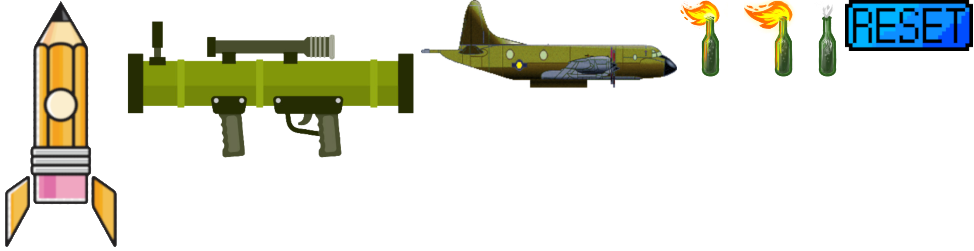
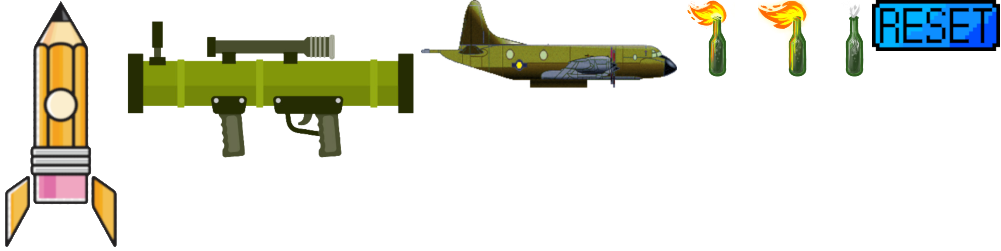
game objects, misc

Changed region(s): [[0.1232, 0.0, 0.9856, 0.6414], [0.0, 0.0279, 0.1232, 0.9761], [0.9856, 0.0, 1.0, 0.0279]]

diff --git a/src/GameObject.cpp b/src/GameObject.cpp
@@ -4,6 +4,49 @@
 GameObject::GameObject(const IDType id, const std::string& name) :_id(id), _name(name) {
 }
 
+void GameObject::SetPosition(const Point& pt) {
+	_position = pt;
+}
+
+void GameObject::SetSize(const Size& sz) {
+	_size = sz;
+}
+
+void GameObject::SetScale(const float scale) {
+	_scale = scale;
+}
+
+void GameObject::SetDirection(const Point& d) {
+	_direction = d;
+}
+
+void GameObject::SetSpeed(const float s) {
+	_speed = s;
+}
+
+void GameObject::SetAngleSpeed(const float s) {
+	_angleSpeed = s;
+}
+
+AnimationPtr GameObject::addAnimation(const std::string& name, const unsigned int framesCount, const unsigned int fps) {
+
+	AnimationPtr animPtr;
+	const auto& animIt = _animations.find(name);
+
+	if (animIt != _animations.end()) {
+
+		Log::Inst()->PutMessage("GameObject::addAnimation " + name + " already added, no action needed");
+		animPtr = animIt->second;
+	}
+	else {
+		animPtr = std::make_shared<Animation>(name, framesCount, fps);
+		_animations[_name] = animPtr;
+	}
+	
+	return animPtr;
+}
+
+
 bool GameObject::playAnimation(const std::string& animName) {
 
 	const auto& animIt = _animations.find(animName);
@@ -17,14 +60,6 @@ bool GameObject::playAnimation(const std::string& animName) {
 	_animationState._startTime = clock();
 
 	return true;
-}
-
-void GameObject::SetPosition(const Point& pt) {
-	_position = pt;
-}
-
-void GameObject::SetSize(const Size& sz) {
-	_size = sz;
 }
 
 void GameObject::updateScale() {
@@ -41,8 +76,11 @@ void GameObject::updateScale() {
 	}
 
 	_spritePtr->getSpr()->setScale(
-		_size.getX() / tRect.width,
-		_size.getY() / tRect.height);
+		_size.getX() / tRect.width * _scale,
+		_size.getY() / tRect.height * _scale);
+
+	const Size halfSize(float(tRect.width) / 2.f, float(tRect.height) / 2.f);
+	_spritePtr->getSpr()->setOrigin(halfSize.getX(), halfSize.getY());
 }
 
 void GameObject::updateAnimations() {
@@ -50,8 +88,8 @@ void GameObject::updateAnimations() {
 	if (_animationState.isEmpty()) {
 
 		if (_animations.empty()) {
-			AnimationPtr defaultAnimationPtr = std::make_shared<Animation>(_name, 2);
-			_animations[_name] = defaultAnimationPtr;
+
+			addAnimation(_name, 1, 0);
 		}
 
 		playAnimation(_name);
@@ -97,5 +135,6 @@ void GameObject::update(float dt) {
 	updateAnimations();
 	updateScale();
 
+	_spritePtr->getSpr()->setRotation(_rotation);
 	_spritePtr->getSpr()->setPosition(_position.getX(), _position.getY());
 }

diff --git a/src/GameObject.h b/src/GameObject.h
@@ -14,8 +14,12 @@ public:
 	void updateScale();
 	void updateAnimations();
 
+	void SetScale(const float scale);
 	void SetSize(const Size& sz);
 	void SetPosition(const Point& pt);
+	void SetDirection(const Point& d);
+	void SetSpeed(const float s);
+	void SetAngleSpeed(const float s);
 
 	IDType getId() const { return _id; }
 
@@ -30,13 +34,15 @@ protected:
 		bool isEmpty() const { return _startTime == 0; }
 	};
 
-	std::unordered_map<std::string, AnimationPtr> _animations;
+	AnimationPtr addAnimation(const std::string& name, const unsigned int framesCount, const unsigned int fps);
 
+	std::unordered_map<std::string, AnimationPtr> _animations;
 	AnimationState _animationState;
 
 	Point _position;
 	Point _direction{1.f, 0.f};
 	Size _size;
+	float _scale{ 1.f };
 	
 	float _rotation{ 0.f };
 	float _speed{ 0.f };

diff --git a/src/Animation.cpp b/src/Animation.cpp
@@ -3,11 +3,24 @@
 #include "TextureManager.h"
 
 Animation::Animation(const std::string& name, unsigned int size, unsigned int fps) : _name(name), _size(size), _fps(fps) {
+
+	if (size == 0) {
+		Log::Inst()->PutErr("Animation::Animation error, size cannot be 0... " + name);
+	}
+
+	if (size == 1 && fps > 0) {
+		Log::Inst()->PutErr("Animation::Animation warning: if size == 1, fps should be 0... " + name);
+		_fps = 0;
+	}
 }
 
 TextureRect Animation::GetTexRectFor(float dt) {
 
-	const unsigned int frameInd = unsigned(dt * _fps) % _size;
+	unsigned int frameInd = 0;
+
+	if (_size > 1) {
+		frameInd = unsigned(dt * _fps) % _size;
+	}
 	const TextureRect& result = getTexRectFor(frameInd);
 	return result;
 }

diff --git a/src/Game.cpp b/src/Game.cpp
@@ -30,6 +30,10 @@ void Game::Update() {
 
 	const auto currClock = clock();
 
+	if (_clock == 0) {
+		_clock = currClock;
+	}
+
 	const float dt = Utils::dt(currClock, _clock);
 
 	for (const auto& obj : _objects) {
@@ -66,7 +70,11 @@ void Game::Init() {
 	}
 
 	GameObjectPtr bottleObj = std::make_shared<GameObject>(newID(), "bottle_fire.png");
-	bottleObj->SetPosition({ 300, 300 });
+	bottleObj->SetPosition({ 912, 700 });
+	bottleObj->SetDirection({ -0.1f, -0.1f });
+	bottleObj->SetSpeed(200.f);
+	bottleObj->SetAngleSpeed(180);
+	
 	_objects[bottleObj->getId()] = bottleObj;
 }
 
